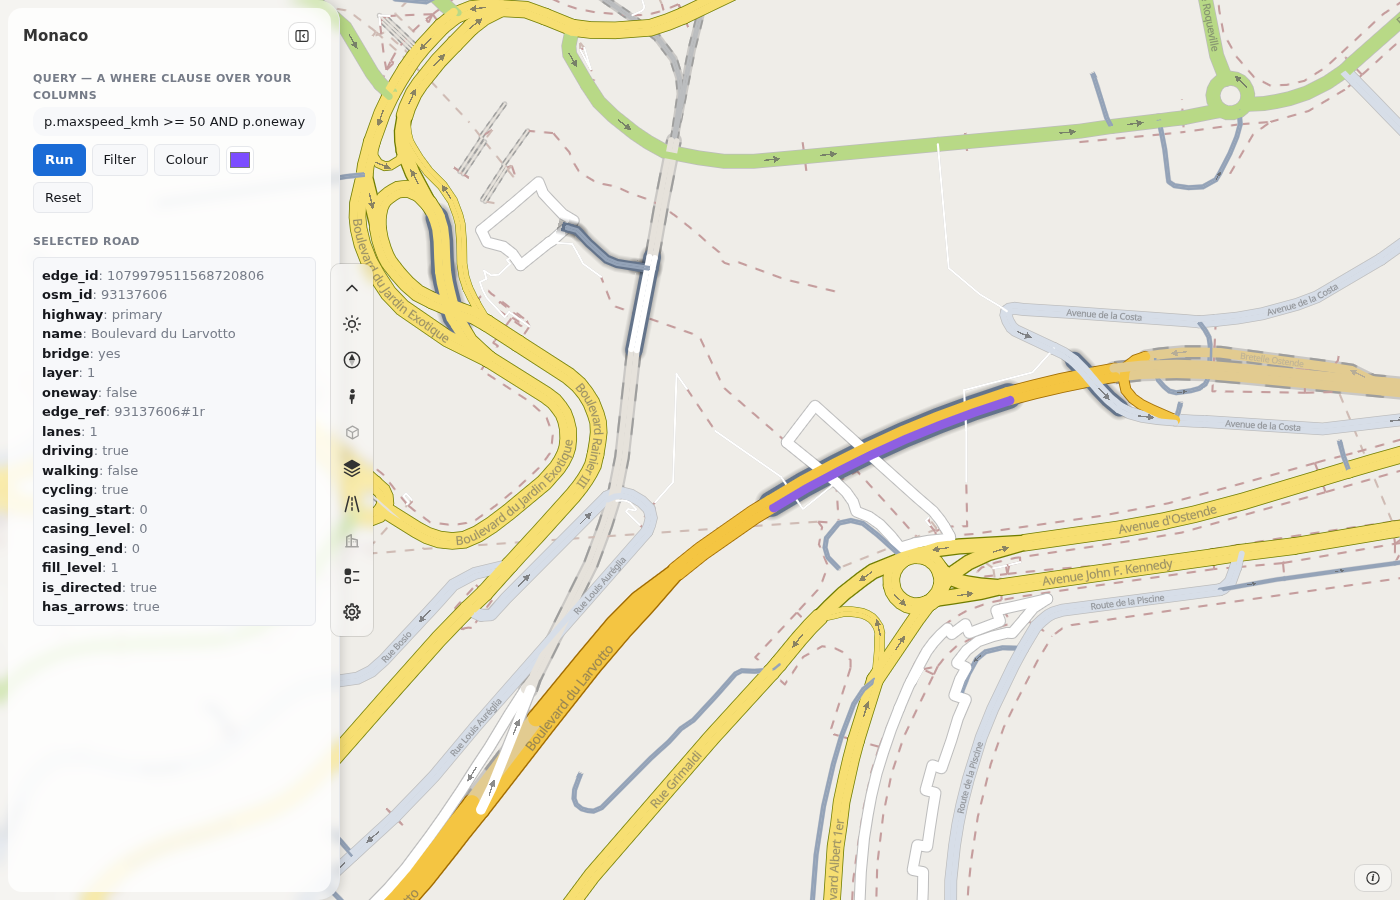
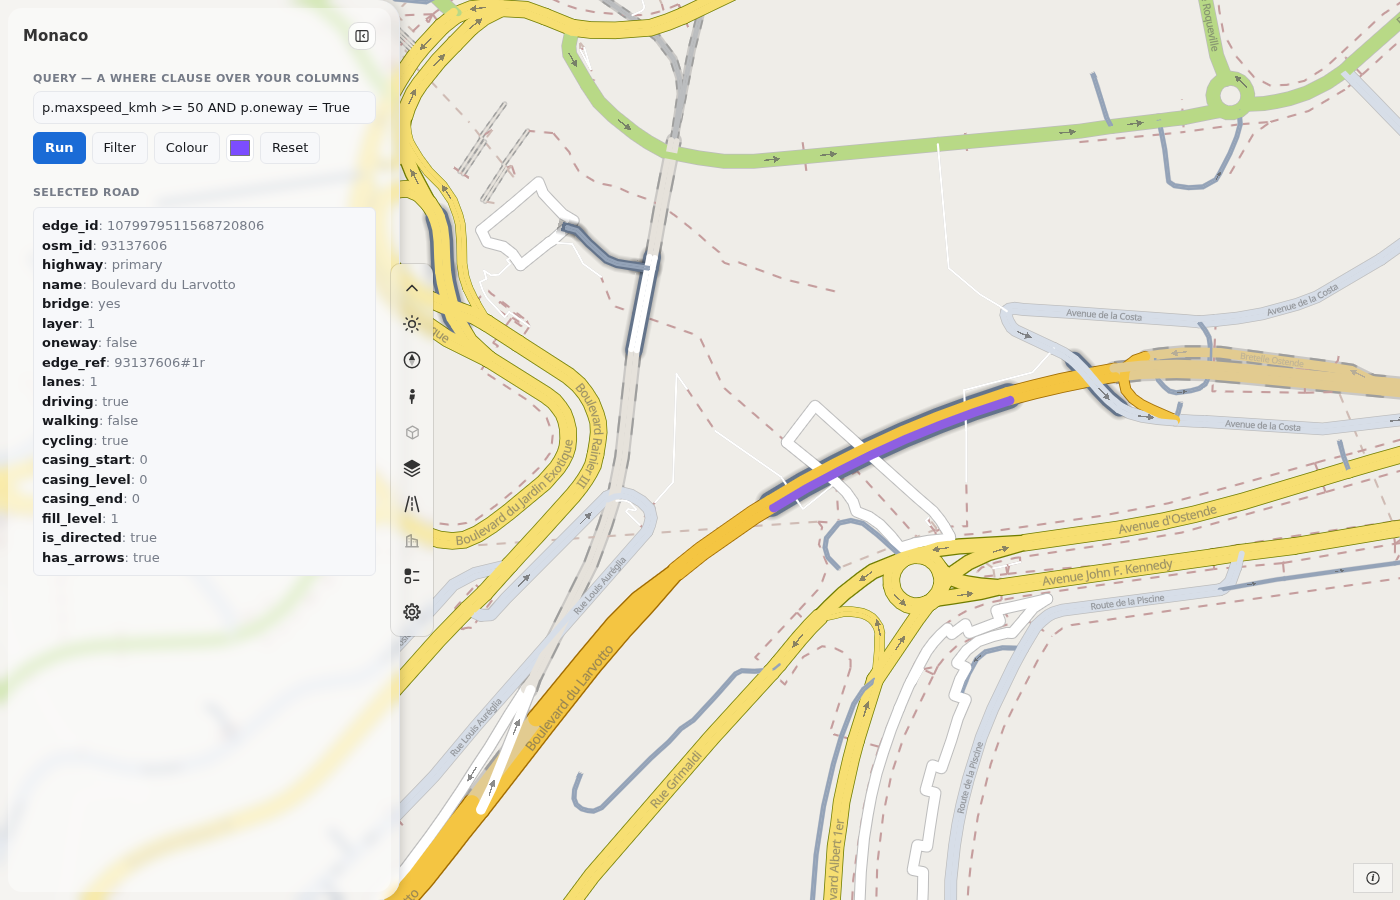
docs: the dashboard parts, the 400 px panel, the phone bar and refreshed screenshots
Links to the Dashboard parts page from the dashboards guide, the guides index and the home page. rs.classify in the parameters
and the colour guide. New screenshots of Monaco (desktop 1400 x 900, phone 390 x 844) from a build with the one-row phone bar.

diff --git a/docs/reference/settings.md b/docs/reference/settings.md
@@ -71,7 +71,7 @@ Every settings level uses one layout. `profile` and `palette` name the look; `co
 **The older layout** (2026-10-19): a settings file that still gives style values as `palettes`, `selection`, `roads` or as
 style keys of `config` (`labels`, `arrows`, `bridge_*`, `tunnel_*`, `minzoom`, ...) keeps working for one release. roadstyle
 reads each one as its theme key and gives a `DeprecationWarning` that names the new key (`config.bridge_casing_color ->
-theme bridges.casing_color`). A palette entry may also be wrapped as `{"roads": {...}}`.
+theme bridges.casing_color`). A palette entry can also be wrapped as `{"roads": {...}}`.
 
 ## Palettes
 
